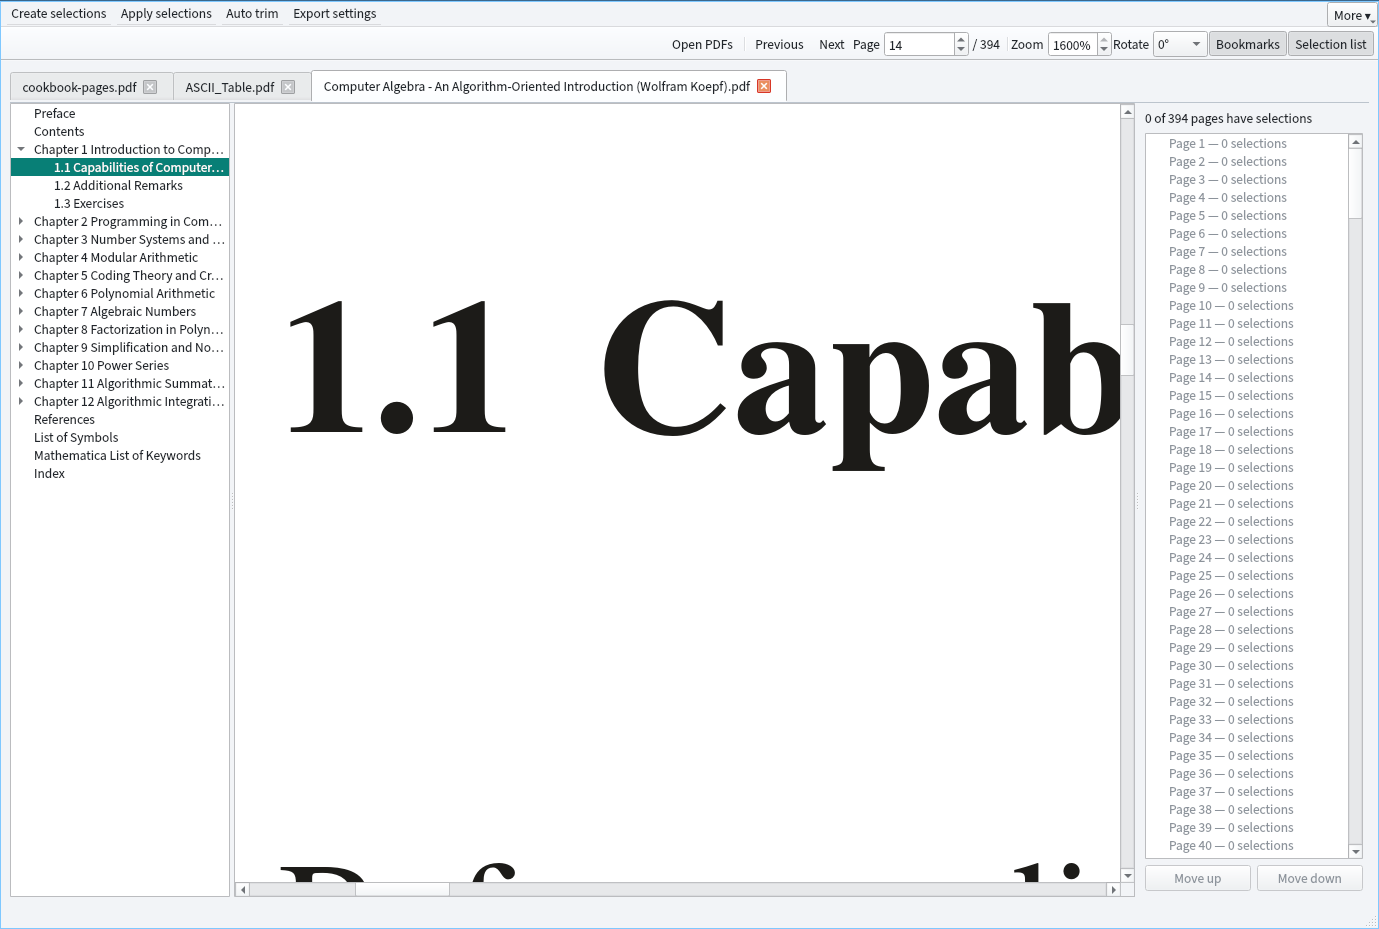
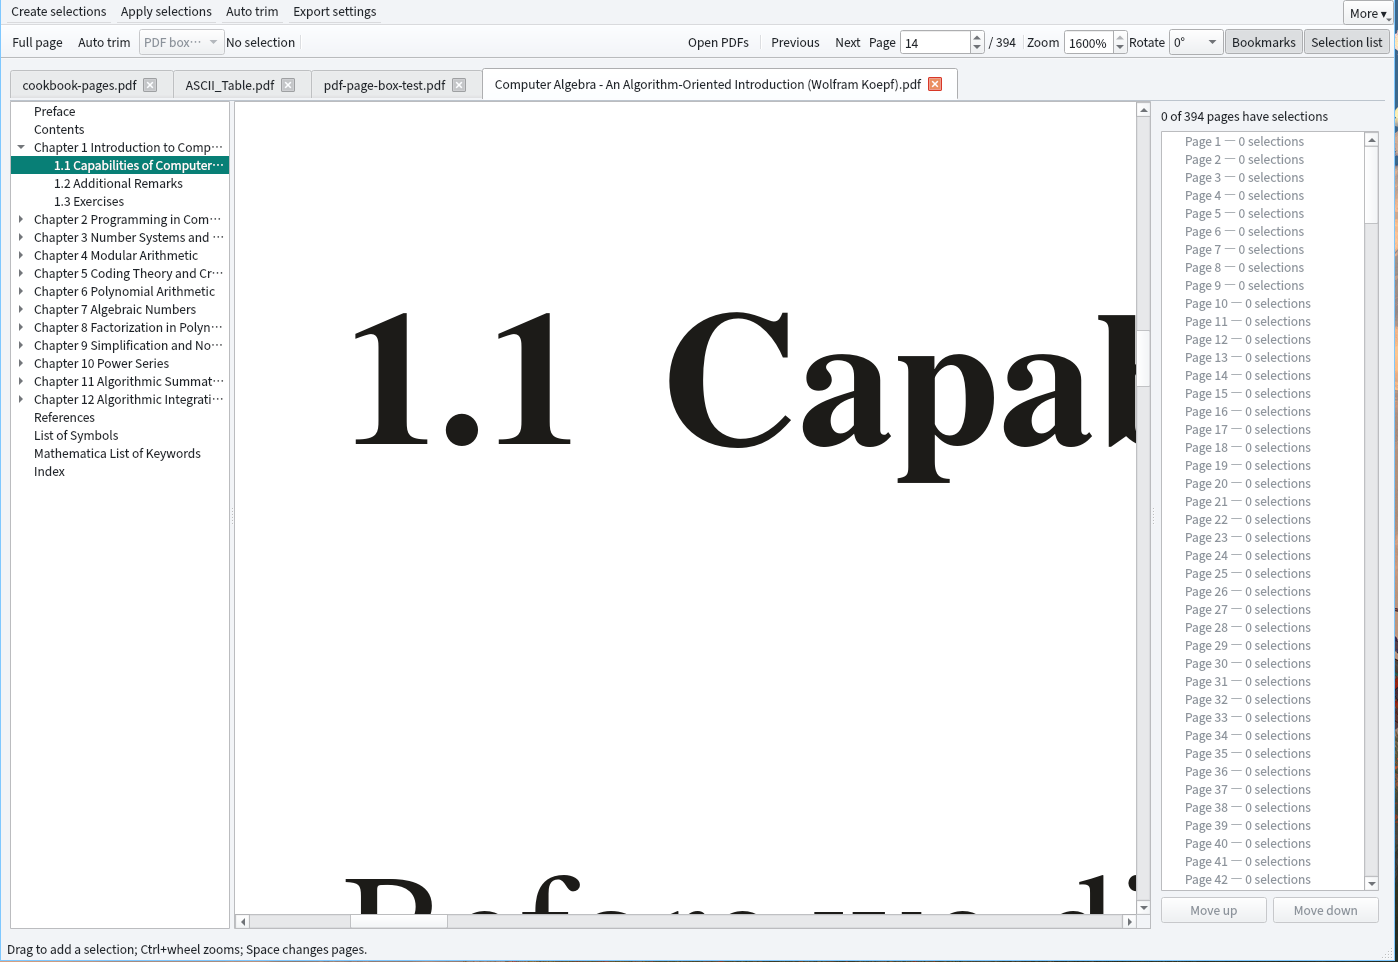
doc: add screenshot of pdf cropping, update README.

diff --git a/README.md b/README.md
@@ -4,6 +4,8 @@ prop (PDF crop) is an Arch Linux / Wayland desktop application based on C++17, Q
 
 ![Interface preview](screenshot.png)
 
+![Crop preview](screenshot-crop.png)
+
 [View dark theme preview](screenshot-dark-theme.png)
 
 [View 1600% local rendering preview](screenshot-1600.png)
